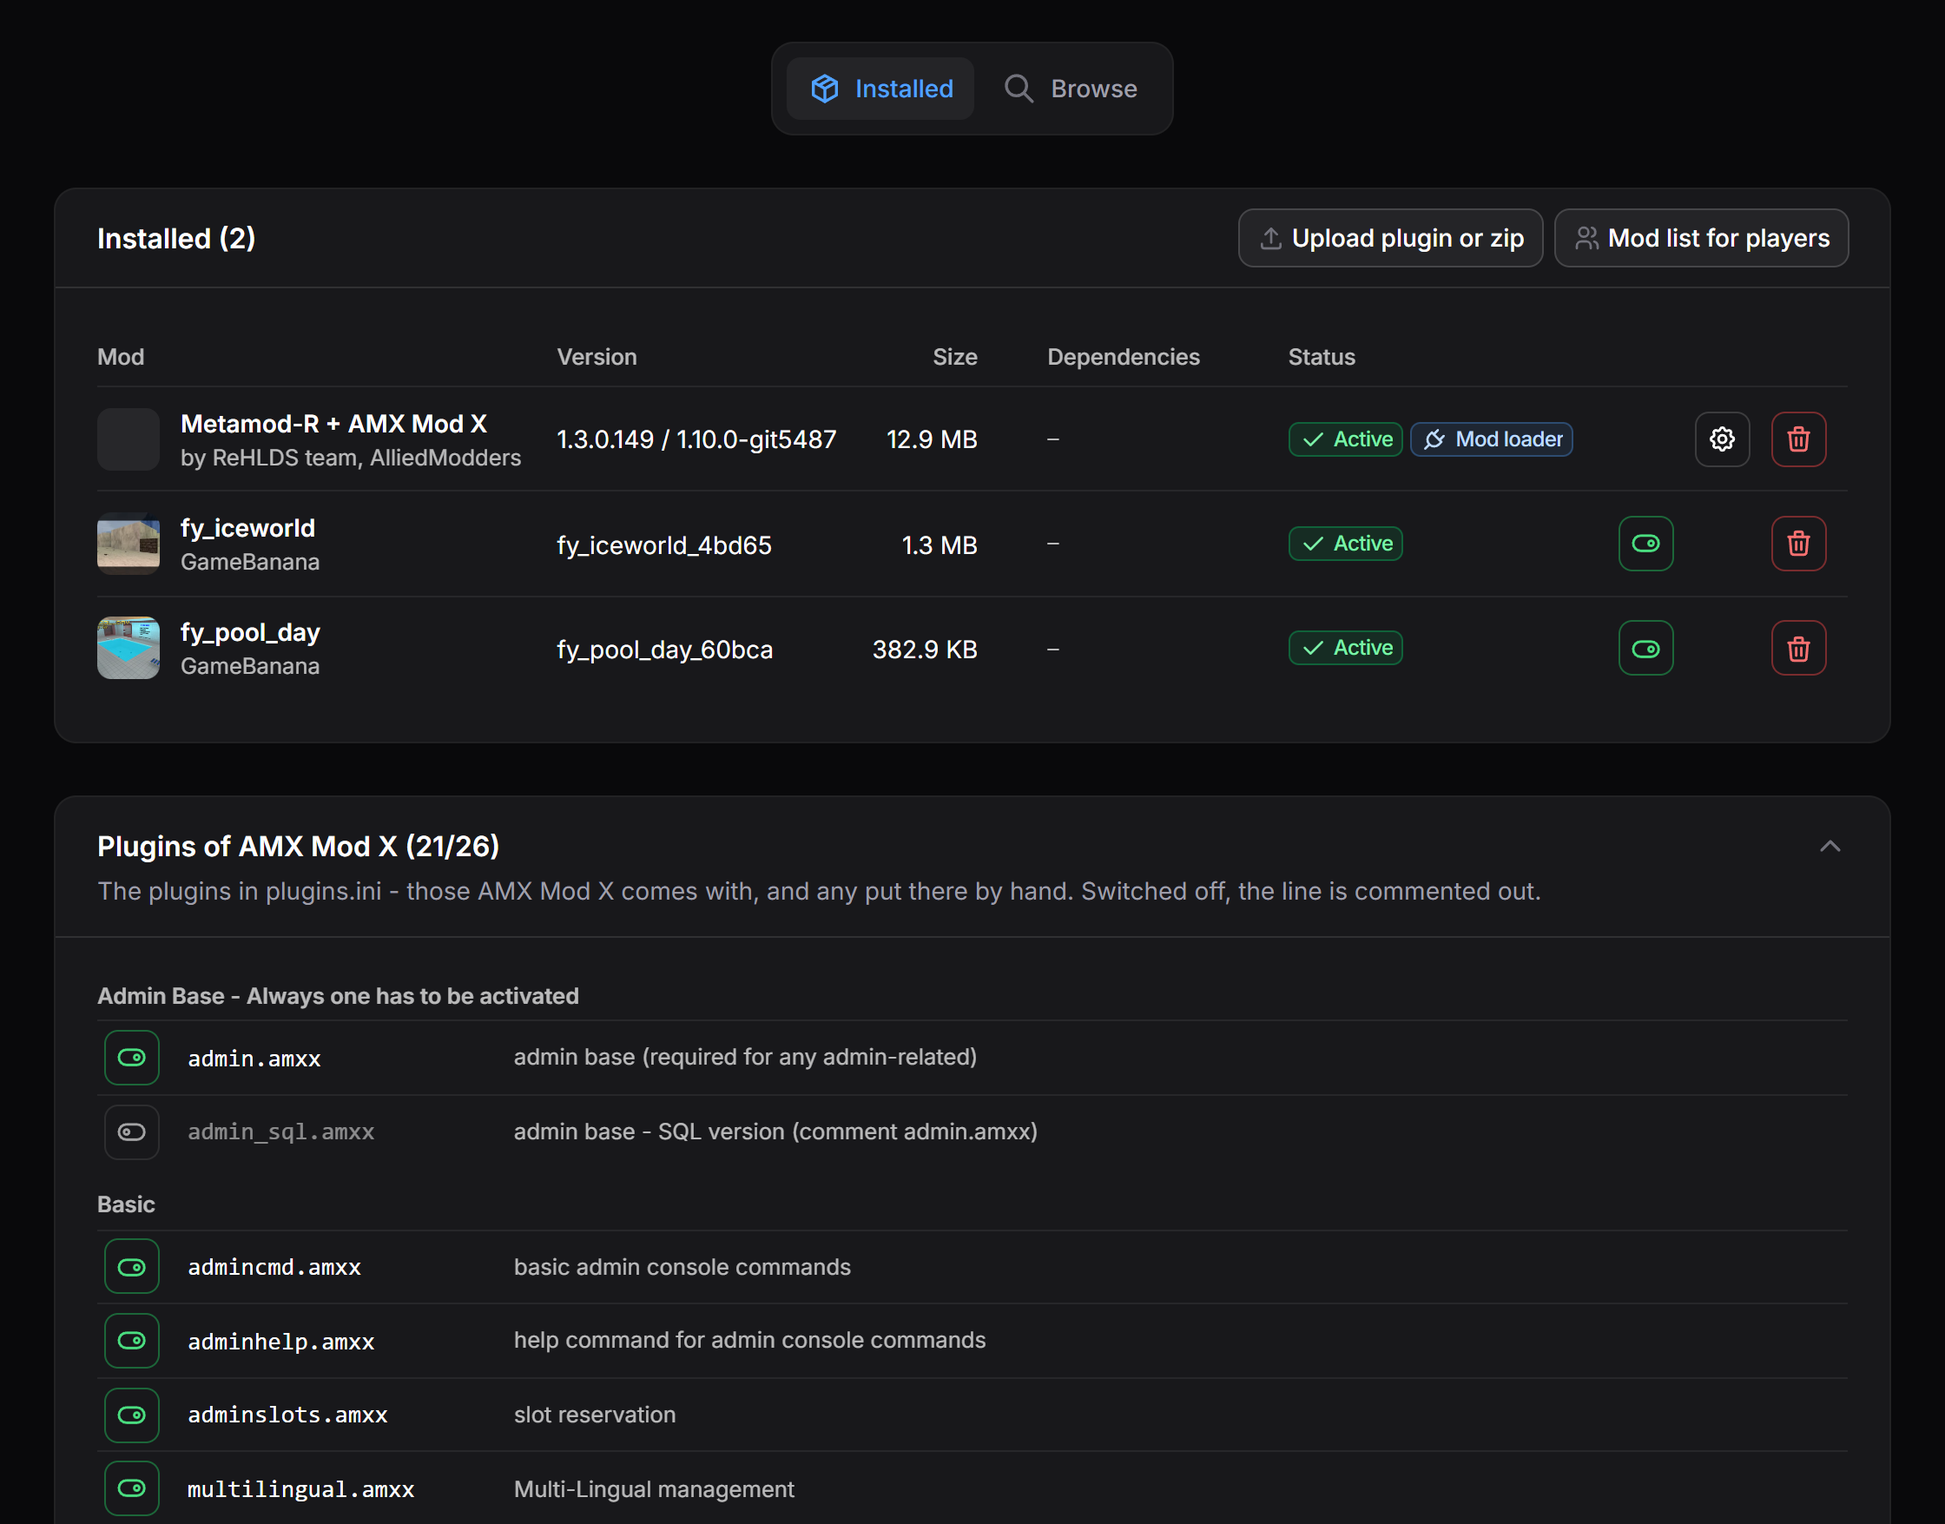
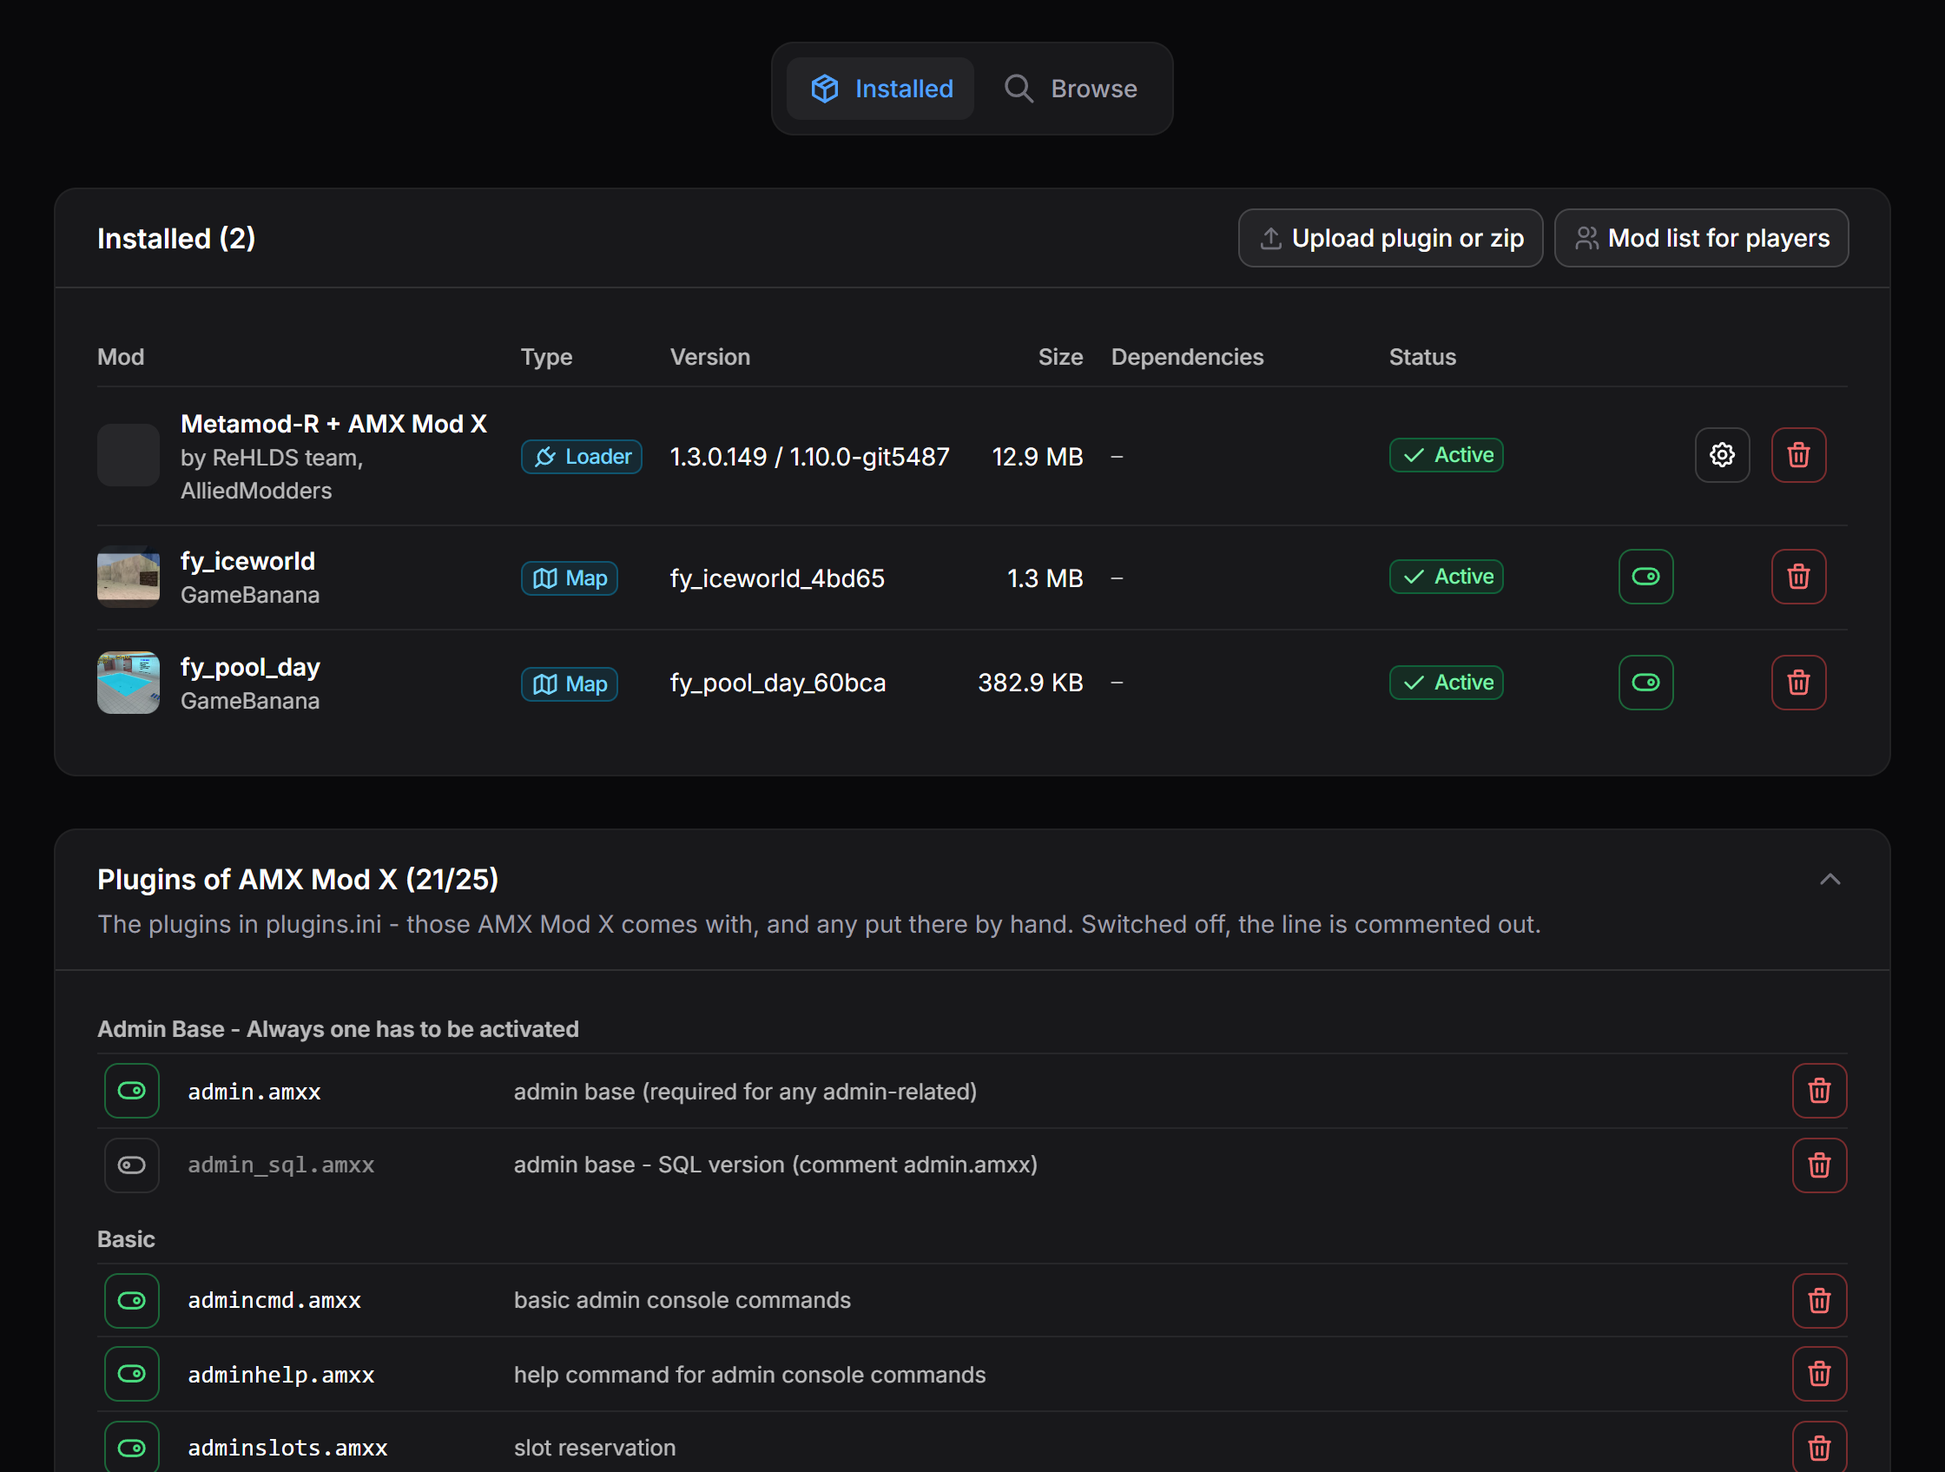
mod-manager: a type column for every row, the update below the version, 0.13.0
Mod, plugin, datapack, resource pack, map or loader, one badge each in a
column of its own; the origin line names the source only. The update
button sits below the version it updates, so the action column is the
same in every row and the table fits again.

diff --git a/plugins/mod-manager/resources/views/pages/mods.blade.php b/plugins/mod-manager/resources/views/pages/mods.blade.php
@@ -48,6 +48,11 @@
         .mod-action.mod-danger { color: rgb(220,38,38); border-color: rgba(239,68,68,.45); }
         .dark .mod-action.mod-on { color: rgb(74,222,128); }
         .dark .mod-action.mod-danger { color: rgb(248,113,113); }
+        {{-- the update below a version: small, blue like the link it replaces; grey while the version is pinned --}}
+        .mod-update { margin-top: .2rem; padding: .05rem .45rem; border-radius: .375rem; border: 1px solid rgba(59,130,246,.45); background: rgba(59,130,246,.1); color: rgb(37,99,235); font-size: .75rem; font-weight: 600; cursor: pointer; white-space: nowrap; }
+        .mod-update:hover { background: rgba(59,130,246,.2); }
+        .dark .mod-update { color: rgb(96,165,250); }
+        .mod-update.mod-update-pinned { color: inherit; border-color: rgba(127,127,127,.35); background: transparent; }
     </style>
     @if ($this->needsRestart())
         <div style="display:flex;gap:.75rem;align-items:center;flex-wrap:wrap;padding:.75rem 1rem;border-radius:.75rem;border:1px solid rgba(234,179,8,.5);background:rgba(234,179,8,.08)">
@@ -99,9 +104,10 @@
                         <thead>
                             <tr style="text-align:left;{{ $muted }}">
                                 <th style="padding:.4rem .5rem .4rem 0;font-weight:500">{{ trans('mod-manager::mods.columns.mod') }}</th>
+                                <th style="padding:.4rem .5rem;font-weight:500">{{ trans('mod-manager::mods.columns.type') }}</th>
                                 <th style="padding:.4rem .5rem;font-weight:500">{{ trans('mod-manager::mods.columns.version') }}</th>
                                 <th style="padding:.4rem .5rem;font-weight:500;text-align:right">{{ trans('mod-manager::mods.columns.size') }}</th>
-                                <th style="padding:.4rem .5rem .4rem 2rem;font-weight:500">{{ trans('mod-manager::mods.columns.dependencies') }}</th>
+                                <th style="padding:.4rem .5rem;font-weight:500">{{ trans('mod-manager::mods.columns.dependencies') }}</th>
                                 <th style="padding:.4rem .5rem;font-weight:500">{{ trans('mod-manager::mods.columns.status') }}</th>
                                 <th></th>
                             </tr>
@@ -121,17 +127,19 @@
                                             </div>
                                         </div>
                                     </td>
+                                    <td style="padding:.6rem .5rem">
+                                        <x-filament::badge color="info" size="sm" icon="tabler-plug" style="width:max-content">{{ trans('mod-manager::mods.types.loader') }}</x-filament::badge>
+                                    </td>
                                     <td style="padding:.6rem .5rem">–</td>
                                     <td style="padding:.6rem .5rem;text-align:right">–</td>
-                                    <td style="padding:.6rem .5rem .6rem 2rem;{{ $muted }}">–</td>
-                                    <td style="padding:.6rem .5rem">
+                                    <td style="padding:.6rem .5rem;{{ $muted }}">–</td>
+                                    <td style="padding:.6rem .5rem;min-width:8rem">
                                         <div style="display:flex;gap:.25rem;flex-wrap:wrap">
                                                 @if ($loader['installed'])
                                                     <x-filament::badge color="warning" size="sm" icon="tabler-alert-triangle">{{ trans('mod-manager::mods.loader.not_started') }}</x-filament::badge>
                                                 @else
                                                     <x-filament::badge color="danger" size="sm" icon="tabler-x">{{ trans('mod-manager::mods.loader.missing') }}</x-filament::badge>
                                                 @endif
-                                            <x-filament::badge color="primary" size="sm" icon="tabler-plug">{{ trans('mod-manager::mods.loader_dependency') }}</x-filament::badge>
                                         </div>
                                     </td>
                                     <td style="padding:.6rem .5rem">
@@ -179,16 +187,30 @@
                                             </div>
                                         </div>
                                     </td>
+                                    <td style="padding:.6rem .5rem">
+                                        {{-- one badge per row, the same colour for all: what kind of thing it is --}}
+                                        @php
+                                            [$type, $typeIcon] = $this->type($install->package, $isLoader);
+                                        @endphp
+                                        <x-filament::badge color="info" size="sm" :icon="$typeIcon" style="width:max-content">{{ trans("mod-manager::mods.types.$type") }}</x-filament::badge>
+                                    </td>
                                     <td style="padding:.6rem .5rem;white-space:nowrap">
                                         {{ $install->version }}
                                         @if (isset($updates[$install->package]))
-                                            <div style="color:rgb(59,130,246);font-size:.75rem">→ {{ $updates[$install->package] }}</div>
+                                            {{-- the jump from what is there to what is out, and a click on it updates --}}
+                                            @if (($isLoader ? $canLoader : $canUpdate) && !($isLoader && !$loaderRuns))
+                                                <div>
+                                                    <button type="button" @class(['mod-update', 'mod-update-pinned' => $install->pinned]) wire:click="{{ $isLoader ? 'installLoader' : 'updateMod(' . $install->id . ')' }}" wire:loading.attr="disabled" title="{{ trans('mod-manager::mods.update_from_to', ['from' => $install->version, 'to' => $updates[$install->package]]) }}">↑ {{ $updates[$install->package] }}</button>
+                                                </div>
+                                            @else
+                                                <div style="color:rgb(59,130,246);font-size:.75rem">→ {{ $updates[$install->package] }}</div>
+                                            @endif
                                         @endif
                                     </td>
                                     <td style="padding:.6rem .5rem;white-space:nowrap;text-align:right">
                                         {{ $install->size !== null ? \Illuminate\Support\Number::fileSize($install->size, 1) : '–' }}
                                     </td>
-                                    <td style="padding:.6rem .5rem .6rem 2rem;{{ $muted }};min-width:10rem">
+                                    <td style="padding:.6rem .5rem;{{ $muted }};min-width:10rem">
                                         @if ($relation['requires'])
                                             <div>{{ trans('mod-manager::mods.requires', ['names' => implode(', ', $relation['requires'])]) }}</div>
                                         @endif
@@ -199,7 +221,7 @@
                                             –
                                         @endif
                                     </td>
-                                    <td style="padding:.6rem .5rem">
+                                    <td style="padding:.6rem .5rem;min-width:8rem">
                                         <div style="display:flex;gap:.25rem;flex-wrap:wrap">
                                             @if (isset($updates[$install->package]) && !$install->pinned)
                                                 <x-filament::badge color="info" size="sm" icon="tabler-arrow-up">{{ trans('mod-manager::mods.update') }}</x-filament::badge>
@@ -222,21 +244,6 @@
                                             @elseif (!isset($updates[$install->package]))
                                                 <x-filament::badge color="success" size="sm" icon="tabler-check">{{ trans('mod-manager::mods.active') }}</x-filament::badge>
                                             @endif
-                                            @if ($isLoader)
-                                                <x-filament::badge color="primary" size="sm" icon="tabler-plug">{{ trans('mod-manager::mods.loader_dependency') }}</x-filament::badge>
-                                            @endif
-                                            {{-- maps and packs share the table with plugins, this tells them apart at a glance --}}
-                                            @php
-                                                $kindBadge = match (true) {
-                                                    $isMap => ['map', 'tabler-map'],
-                                                    \Marschux\ModManager\Installer::kind($install->package) === 'datapack' => ['datapack', 'tabler-package'],
-                                                    \Marschux\ModManager\Installer::kind($install->package) === 'resourcepack' => ['resourcepack', 'tabler-photo'],
-                                                    default => null,
-                                                };
-                                            @endphp
-                                            @if ($kindBadge)
-                                                <x-filament::badge color="info" size="sm" :icon="$kindBadge[1]">{{ trans('mod-manager::mods.kind.' . $kindBadge[0]) }}</x-filament::badge>
-                                            @endif
                                         </div>
                                     </td>
                                     <td style="padding:.6rem .5rem">
@@ -245,17 +252,6 @@
                                                 @if ($canLoader)
                                                     <x-filament::button size="xs" :icon="$loader['installed'] ? 'tabler-tool' : 'tabler-download'" wire:click="installLoader" wire:loading.attr="disabled" style="white-space:nowrap">
                                                         {{ trans($loader['installed'] ? 'mod-manager::mods.loader.repair' : 'mod-manager::mods.install') }}
-                                                    </x-filament::button>
-                                                @endif
-                                            @elseif (isset($updates[$install->package]) && ($isLoader ? $canLoader : $canUpdate))
-                                                {{-- shows the jump: from what is there to what is out --}}
-                                                @if ($isLoader)
-                                                    <x-filament::button size="xs" icon="tabler-arrow-up" wire:click="installLoader" :tooltip="trans('mod-manager::mods.update_from_to', ['from' => $install->version, 'to' => $updates[$install->package]])" style="white-space:nowrap">
-                                                        {{ $updates[$install->package] }}
-                                                    </x-filament::button>
-                                                @else
-                                                    <x-filament::button size="xs" :color="$install->pinned ? 'gray' : 'primary'" icon="tabler-arrow-up" wire:click="updateMod({{ $install->id }})" :tooltip="trans('mod-manager::mods.update_from_to', ['from' => $install->version, 'to' => $updates[$install->package]])" style="white-space:nowrap">
-                                                        {{ $updates[$install->package] }}
                                                     </x-filament::button>
                                                 @endif
                                             @endif

diff --git a/plugins/mod-manager/src/Filament/Server/Pages/ModsPage.php b/plugins/mod-manager/src/Filament/Server/Pages/ModsPage.php
@@ -540,15 +540,29 @@ class ModsPage extends Page
     /** The line below a name in the installed table: a mod's author, a plugin's source, a pack's kind. */
     public function origin(string $package): string
     {
-        $kind = Modrinth::kindOf($package);
-
         return match (true) {
             $package === GoldSrc::PACKAGE => trans('mod-manager::mods.by', ['author' => 'ReHLDS team, AlliedModders']),
             Installer::uploaded($package) => trans('mod-manager::mods.upload.origin'),
-            str_starts_with($package, GameBanana::PREFIX) => Presets::SOURCES['gamebanana'] . ' · ' . trans('mod-manager::mods.kind.map'),
-            $kind !== null && $kind !== 'plugin' => $this->sourceName($package) . ' · ' . trans("mod-manager::mods.kind.$kind"),
-            Installer::jarPackage($package) => $this->sourceName($package),
+            str_starts_with($package, GameBanana::PREFIX), Installer::jarPackage($package) => $this->sourceName($package),
             default => trans('mod-manager::mods.by', ['author' => strtok($package, '-')]),
+        };
+    }
+
+    /**
+     * What a row is, for the type column: key of mods.types and its icon.
+     *
+     * @return array{0: string, 1: string}
+     */
+    public function type(string $package, bool $isLoader = false): array
+    {
+        return match (true) {
+            $isLoader => ['loader', 'tabler-plug'],
+            str_starts_with($package, GameBanana::PREFIX) => ['map', 'tabler-map'],
+            Modrinth::kindOf($package) === 'datapack' => ['datapack', 'tabler-package'],
+            Modrinth::kindOf($package) === 'resourcepack' => ['resourcepack', 'tabler-photo'],
+            // jars of Paper and AMX Mod X's .amxx are plugins, Thunderstore packages mods
+            Installer::uploaded($package), Installer::jarPackage($package) => ['plugin', 'tabler-puzzle'],
+            default => ['mod', 'tabler-puzzle'],
         };
     }
 

diff --git a/plugins/mod-manager/lang/es/mods.php b/plugins/mod-manager/lang/es/mods.php
@@ -52,10 +52,13 @@ return [
         'datapack' => 'Datapacks',
         'resourcepack' => 'Paquetes de recursos',
     ],
-    'kind' => [
-        'map' => 'Mapa',
+    'types' => [
+        'mod' => 'Mod',
+        'plugin' => 'Plugin',
         'datapack' => 'Datapack',
         'resourcepack' => 'Paquete de recursos',
+        'map' => 'Mapa',
+        'loader' => 'Cargador',
     ],
     'is_installed' => 'Instalado',
     'remove' => 'Quitar',
@@ -74,6 +77,7 @@ return [
     'active' => 'Activo',
     'columns' => [
         'mod' => 'Mod',
+        'type' => 'Tipo',
         'version' => 'Versión',
         'size' => 'Tamaño',
         'dependencies' => 'Dependencias',

diff --git a/plugins/mod-manager/lang/de/mods.php b/plugins/mod-manager/lang/de/mods.php
@@ -52,10 +52,13 @@ return [
         'datapack' => 'Datapacks',
         'resourcepack' => 'Resource-Packs',
     ],
-    'kind' => [
-        'map' => 'Map',
+    'types' => [
+        'mod' => 'Mod',
+        'plugin' => 'Plugin',
         'datapack' => 'Datapack',
         'resourcepack' => 'Resource-Pack',
+        'map' => 'Map',
+        'loader' => 'Loader',
     ],
     'is_installed' => 'Installiert',
     'remove' => 'Entfernen',
@@ -74,6 +77,7 @@ return [
     'active' => 'Aktiv',
     'columns' => [
         'mod' => 'Mod',
+        'type' => 'Typ',
         'version' => 'Version',
         'size' => 'Größe',
         'dependencies' => 'Abhängigkeiten',

diff --git a/plugins/mod-manager/lang/en/mods.php b/plugins/mod-manager/lang/en/mods.php
@@ -52,10 +52,13 @@ return [
         'datapack' => 'Datapacks',
         'resourcepack' => 'Resource packs',
     ],
-    'kind' => [
-        'map' => 'Map',
+    'types' => [
+        'mod' => 'Mod',
+        'plugin' => 'Plugin',
         'datapack' => 'Datapack',
         'resourcepack' => 'Resource pack',
+        'map' => 'Map',
+        'loader' => 'Loader',
     ],
     'is_installed' => 'Installed',
     'remove' => 'Remove',
@@ -74,6 +77,7 @@ return [
     'active' => 'Active',
     'columns' => [
         'mod' => 'Mod',
+        'type' => 'Type',
         'version' => 'Version',
         'size' => 'Size',
         'dependencies' => 'Dependencies',
